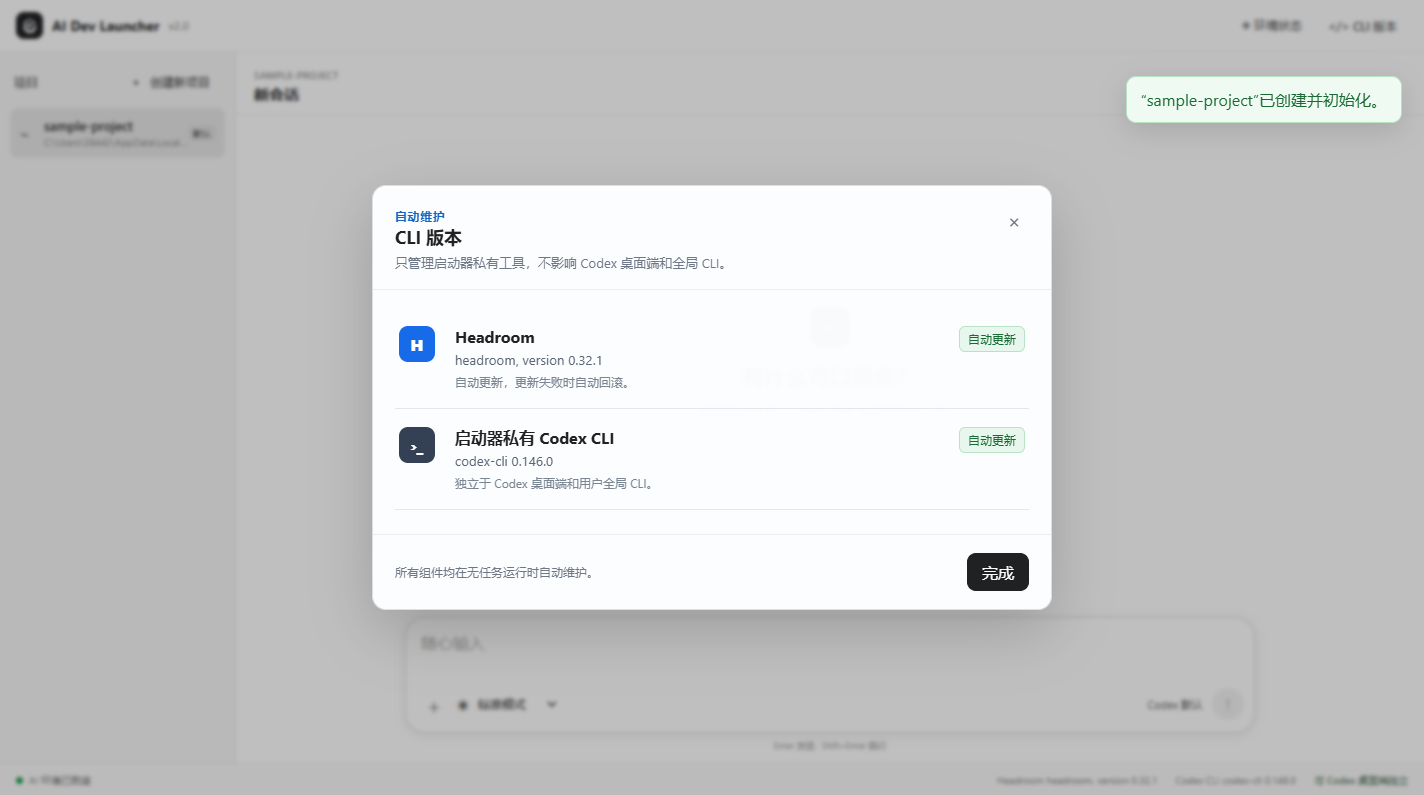
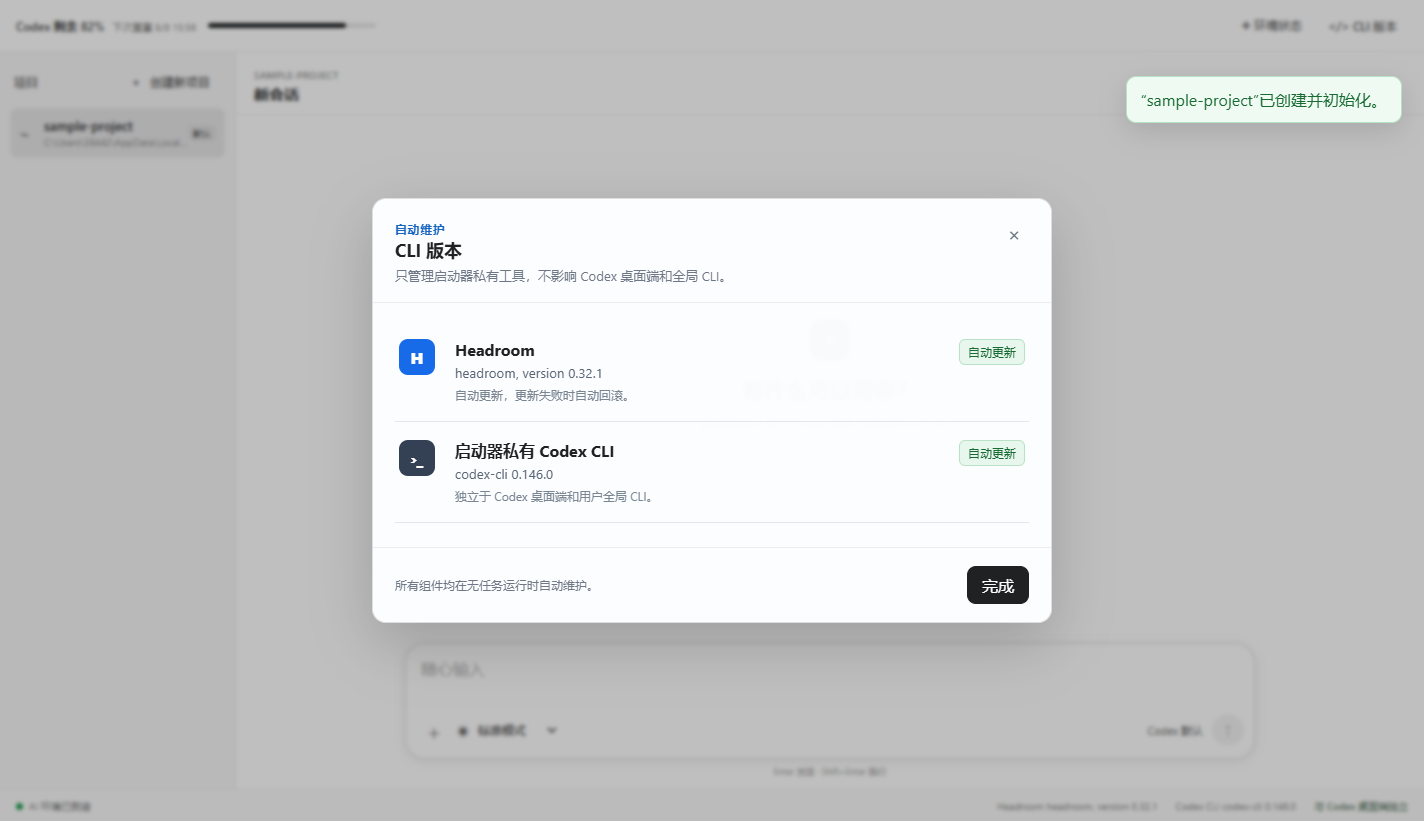
feat: show Codex usage and simplify window chrome

diff --git a/desktop/src/App.vue b/desktop/src/App.vue
@@ -1,17 +1,17 @@
 <script setup lang="ts">
-import { onMounted, ref } from "vue";
+import { computed, onMounted, onUnmounted, ref } from "vue";
 import AddProjectDialog from "./components/AddProjectDialog.vue";
-import AppIcon from "./components/AppIcon.vue";
 import CliVersionDialog from "./components/CliVersionDialog.vue";
 import ChatWorkspace from "./components/ChatWorkspace.vue";
 import EnvironmentDialog from "./components/EnvironmentDialog.vue";
 import ProjectList from "./components/ProjectList.vue";
-import type { CreateProjectInput, Project, RuntimeStatus } from "./types";
+import type { CodexUsage, CreateProjectInput, Project, RuntimeStatus } from "./types";
 
 const projects = ref<Project[]>([]);
 const defaultProject = ref<string | null>(null);
 const selected = ref<Project | null>(null);
 const runtime = ref<RuntimeStatus | null>(null);
+const codexUsage = ref<CodexUsage | null>(null);
 const loading = ref(true);
 const runtimeLoading = ref(true);
 const busy = ref(false);
@@ -21,6 +21,17 @@ const showCreate = ref(false);
 const showEnvironment = ref(false);
 const showVersions = ref(false);
 const createDialog = ref<InstanceType<typeof AddProjectDialog> | null>(null);
+let usageTimer: number | undefined;
+const remainingLabel = computed(() => codexUsage.value?.remaining_percent == null ? "--" : `${Math.round(codexUsage.value.remaining_percent)}%`);
+const resetLabel = computed(() => {
+  const timestamp = codexUsage.value?.resets_at;
+  if (!timestamp) return "重置时间暂不可用";
+  return `下次重置 ${new Date(timestamp * 1000).toLocaleString("zh-CN", { month: "numeric", day: "numeric", hour: "2-digit", minute: "2-digit" })}`;
+});
+async function refreshUsage(): Promise<void> {
+  try { codexUsage.value = await window.launcher.getCodexUsage(); }
+  catch { codexUsage.value = { available: false, used_percent: null, remaining_percent: null, resets_at: null, window_minutes: null, plan_type: null }; }
+}
 function announce(message: string): void { notice.value = message; window.setTimeout(() => { if (notice.value === message) notice.value = ""; }, 4000); }
 
 async function refresh(preferred?: string): Promise<void> {
@@ -58,12 +69,15 @@ onMounted(async () => {
   catch (reason) { error.value = reason instanceof Error ? reason.message : String(reason); }
   finally { loading.value = false; }
   void window.launcher.updatePrivateTools().then(() => refreshRuntime()).catch(() => undefined);
+  void refreshUsage();
+  usageTimer = window.setInterval(() => void refreshUsage(), 5 * 60 * 1000);
 });
+onUnmounted(() => { if (usageTimer) window.clearInterval(usageTimer); });
 </script>
 
 <template>
   <main class="app-shell">
-    <header class="app-header"><div class="brand"><AppIcon /><strong>AI Dev Launcher</strong><small>v2.0</small></div><nav><button class="button secondary compact" data-testid="environment-check" @click="showEnvironment = true">◈ 环境状态</button><button class="button secondary compact" data-testid="cli-version" @click="showVersions = true">&lt;/&gt; CLI 版本</button></nav></header>
+    <header class="app-header"><div class="codex-usage" :class="{ unavailable: !codexUsage?.available }"><div class="usage-copy"><strong>Codex 剩余 {{ remainingLabel }}</strong><small>{{ resetLabel }}</small></div><div class="usage-track" role="progressbar" aria-label="Codex 剩余用量" aria-valuemin="0" aria-valuemax="100" :aria-valuenow="codexUsage?.remaining_percent ?? undefined"><i :style="{ width: `${codexUsage?.remaining_percent ?? 0}%` }"></i></div></div><nav><button class="button secondary compact" data-testid="environment-check" @click="showEnvironment = true">◈ 环境状态</button><button class="button secondary compact" data-testid="cli-version" @click="showVersions = true">&lt;/&gt; CLI 版本</button></nav></header>
     <div v-if="notice" class="toast success" role="status">{{ notice }}</div><div v-if="error" class="toast error" role="alert"><span>{{ error }}</span><button class="icon-button" aria-label="关闭错误" @click="error = ''">×</button></div>
     <section v-if="loading" class="center-state" data-testid="loading"><span class="spinner"></span><p>正在自动准备 AI 开发环境…</p></section>
     <section v-else-if="projects.length === 0" class="center-state empty" data-testid="empty-state"><div class="empty-icon">▱</div><h1>创建第一个项目</h1><p>只需填写名称和保存位置，其余工作将自动完成。</p><button class="button primary" @click="showCreate = true">创建新项目</button></section>

diff --git a/desktop/electron/main/codexUsage.ts b/desktop/electron/main/codexUsage.ts
@@ -1,0 +1,66 @@
+import { spawn } from "node:child_process";
+
+export interface CodexUsage {
+  available: boolean;
+  used_percent: number | null;
+  remaining_percent: number | null;
+  resets_at: number | null;
+  window_minutes: number | null;
+  plan_type: string | null;
+}
+
+export function readCodexUsage(): Promise<CodexUsage> {
+  return new Promise((resolve) => {
+    const environment = { ...process.env };
+    for (const key of Object.keys(environment)) if (key.startsWith("_PYI_")) delete environment[key];
+    const executable = process.platform === "win32" ? (process.env.ComSpec || "cmd.exe") : "codex";
+    const args = process.platform === "win32"
+      ? ["/d", "/s", "/c", "codex.cmd app-server --listen stdio://"]
+      : ["app-server", "--listen", "stdio://"];
+    const child = spawn(executable, args, { env: environment, windowsHide: true, stdio: ["pipe", "pipe", "ignore"] });
+    let buffer = "";
+    let initialized = false;
+    let settled = false;
+    const finish = (value: CodexUsage) => {
+      if (settled) return;
+      settled = true;
+      clearTimeout(timeout);
+      child.kill();
+      resolve(value);
+    };
+    const unavailable = (): CodexUsage => ({ available: false, used_percent: null, remaining_percent: null, resets_at: null, window_minutes: null, plan_type: null });
+    const timeout = setTimeout(() => finish(unavailable()), 8000);
+    child.on("error", () => finish(unavailable()));
+    child.stdout.setEncoding("utf8");
+    child.stdout.on("data", (chunk: string) => {
+      buffer += chunk;
+      const lines = buffer.split(/\r?\n/);
+      buffer = lines.pop() ?? "";
+      for (const line of lines) {
+        if (!line.trim()) continue;
+        let message: Record<string, unknown>;
+        try { message = JSON.parse(line) as Record<string, unknown>; } catch { continue; }
+        if (message.id === 1 && !initialized) {
+          initialized = true;
+          child.stdin.write(`${JSON.stringify({ method: "initialized", params: {} })}\n`);
+          child.stdin.write(`${JSON.stringify({ id: 2, method: "account/rateLimits/read", params: null })}\n`);
+        }
+        if (message.id === 2) {
+          const result = (message.result ?? {}) as Record<string, unknown>;
+          const limits = (result.rateLimits ?? {}) as Record<string, unknown>;
+          const primary = (limits.primary ?? {}) as Record<string, unknown>;
+          const used = typeof primary.usedPercent === "number" ? primary.usedPercent : null;
+          finish({
+            available: used !== null,
+            used_percent: used,
+            remaining_percent: used === null ? null : Math.max(0, 100 - used),
+            resets_at: typeof primary.resetsAt === "number" ? primary.resetsAt : null,
+            window_minutes: typeof primary.windowDurationMins === "number" ? primary.windowDurationMins : null,
+            plan_type: typeof limits.planType === "string" ? limits.planType : null
+          });
+        }
+      }
+    });
+    child.stdin.write(`${JSON.stringify({ id: 1, method: "initialize", params: { clientInfo: { name: "ai-dev-launcher", title: "AI Dev Launcher", version: "2.0" } } })}\n`);
+  });
+}

diff --git a/desktop/electron/main/index.ts b/desktop/electron/main/index.ts
@@ -1,8 +1,9 @@
-import { app, BrowserWindow, dialog, ipcMain } from "electron";
+import { app, BrowserWindow, dialog, ipcMain, Menu } from "electron";
 import { dirname, join } from "node:path";
 import { fileURLToPath } from "node:url";
 import { callPython } from "./pythonBridge.js";
 import { ChatSessionManager } from "./chatSessions.js";
+import { readCodexUsage } from "./codexUsage.js";
 
 const currentDir = dirname(fileURLToPath(import.meta.url));
 
@@ -13,7 +14,7 @@ function createWindow(): void {
     minWidth: 1100,
     minHeight: 620,
     backgroundColor: "#f3f6fb",
-    title: "AI Dev Launcher",
+    title: `AI Dev Launcher v${app.getVersion()}`,
     webPreferences: {
       preload: join(currentDir, "../../electron/preload/index.cjs"),
       contextIsolation: true,
@@ -35,6 +36,7 @@ function createWindow(): void {
 }
 
 app.whenReady().then(() => {
+  Menu.setApplicationMenu(null);
   ipcMain.handle("projects:list", () => callPython("projects.list"));
   ipcMain.handle("projects:create", (_event, payload) =>
     callPython("projects.create", payload)
@@ -49,6 +51,7 @@ app.whenReady().then(() => {
   ipcMain.handle("runtime:bootstrap", () => callPython("runtime.bootstrap"));
   ipcMain.handle("runtime:status", () => callPython("runtime.status"));
   ipcMain.handle("runtime:update", () => callPython("runtime.update"));
+  ipcMain.handle("account:usage", () => readCodexUsage());
   ipcMain.handle("workspace:tree", (_event, payload) => callPython("workspace.tree", payload));
   ipcMain.handle("workspace:read", (_event, payload) => callPython("workspace.read", payload));
   ipcMain.handle("workspace:diff", (_event, payload) => callPython("workspace.diff", payload));

diff --git a/desktop/tests/App.test.ts b/desktop/tests/App.test.ts
@@ -33,6 +33,7 @@ describe("App v2 Phase 1", () => {
     vi.mocked(window.launcher.bootstrapRuntime).mockResolvedValue(runtime);
     vi.mocked(window.launcher.getRuntimeStatus).mockResolvedValue(runtime);
     vi.mocked(window.launcher.updatePrivateTools).mockResolvedValue({ tools: [] });
+    vi.mocked(window.launcher.getCodexUsage).mockResolvedValue({ available: true, used_percent: 17, remaining_percent: 83, resets_at: 1786175808, window_minutes: 10080, plan_type: "plus" });
     vi.mocked(window.launcher.onChatEvent).mockImplementation((callback) => { chatListener = callback; return () => undefined; });
     vi.mocked(window.launcher.getFileTree).mockResolvedValue({ items: [], truncated: false });
     vi.mocked(window.launcher.getGitDiff).mockResolvedValue({ diff: "", status: [] });
@@ -52,6 +53,7 @@ describe("App v2 Phase 1", () => {
     vi.mocked(window.launcher.listProjects).mockResolvedValue({ projects: [project], default_project: "my-app" });
     const view = await render();
     expect(view.host.textContent).toContain("与 Codex 桌面端独立");
+    expect(view.host.textContent).toContain("Codex 剩余 83%");
     expect(view.host.textContent).toContain("有什么可以帮你？");
     expect(view.host.textContent).toContain("标准模式");
     view.unmount();

diff --git a/desktop/src/styles.css b/desktop/src/styles.css
@@ -308,6 +308,13 @@ body { min-width: 900px; min-height: 560px; }
 .app-icon { width: 27px; height: 27px; border-radius: 8px; background: #202123; box-shadow: none; }
 .app-icon svg { width: 19px; fill: #fff; }
 .app-header nav { gap: 4px; }
+.codex-usage { width: min(360px, 42vw); display: grid; grid-template-columns: auto minmax(90px, 1fr); align-items: center; gap: 12px; -webkit-app-region: no-drag; }
+.usage-copy { display: flex; align-items: baseline; gap: 8px; white-space: nowrap; }
+.usage-copy strong { color: #363636; font-size: 12px; font-weight: 600; }
+.usage-copy small { color: #8c8c8c; font-size: 10px; }
+.usage-track { height: 5px; overflow: hidden; border-radius: 99px; background: #e7e7e7; }
+.usage-track i { display: block; height: 100%; border-radius: inherit; background: #202123; transition: width .25s ease; }
+.codex-usage.unavailable .usage-track i { background: #aaa; }
 .button { min-height: 38px; border-radius: 9px; padding: 0 14px; font-weight: 500; }
 .button.primary { color: #fff; background: #202123; border-color: #202123; box-shadow: none; }
 .button.primary:hover:not(:disabled) { background: #353536; }

diff --git a/desktop/src/types.ts b/desktop/src/types.ts
@@ -33,6 +33,15 @@ export interface RuntimeStatus {
   recovered?: boolean;
 }
 
+export interface CodexUsage {
+  available: boolean;
+  used_percent: number | null;
+  remaining_percent: number | null;
+  resets_at: number | null;
+  window_minutes: number | null;
+  plan_type: string | null;
+}
+
 export interface ChatEvent {
   task_id: string;
   type: "codex" | "log" | "error" | "complete";
@@ -82,6 +91,7 @@ export interface LauncherApi {
   bootstrapRuntime(): Promise<RuntimeStatus>;
   getRuntimeStatus(): Promise<RuntimeStatus>;
   updatePrivateTools(): Promise<{ tools: Array<{ key: string; status: string; detail: string }> }>;
+  getCodexUsage(): Promise<CodexUsage>;
   startChat(input: { task_id?: string; name: string; prompt: string; permission: "standard" | "full"; session_id?: string }): Promise<{ task_id: string }>;
   stopChat(taskId: string): Promise<{ stopped: boolean }>;
   onChatEvent(callback: (event: ChatEvent) => void): () => void;

diff --git a/desktop/tests/setup.ts b/desktop/tests/setup.ts
@@ -11,6 +11,7 @@ Object.defineProperty(window, "launcher", {
     bootstrapRuntime: vi.fn(),
     getRuntimeStatus: vi.fn(),
     updatePrivateTools: vi.fn(),
+    getCodexUsage: vi.fn(),
     startChat: vi.fn(),
     stopChat: vi.fn(),
     onChatEvent: vi.fn(() => () => undefined),

diff --git a/src/ai_dev_launcher/bridge.py b/src/ai_dev_launcher/bridge.py
@@ -147,7 +147,9 @@ def main() -> int:
         response = {"ok": True, "data": handle_request(request)}
     except (LauncherError, OSError, ValueError, json.JSONDecodeError) as exc:
         response = {"ok": False, "error": str(exc)}
-    json.dump(response, sys.stdout, ensure_ascii=False)
+    # Keep the Electron bridge byte stream ASCII-only so Windows code pages cannot
+    # corrupt Chinese status labels emitted by the packaged executable.
+    json.dump(response, sys.stdout, ensure_ascii=True)
     sys.stdout.write("\n")
     return 0 if response["ok"] else 1
 

diff --git a/tests/test_cli.py b/tests/test_cli.py
@@ -12,7 +12,7 @@ def test_version():
     result = runner.invoke(app, ["--version"])
 
     assert result.exit_code == 0
-    assert "AI Dev Launcher 2.0.4" in result.stdout
+    assert "AI Dev Launcher 2.0.5" in result.stdout
 
 
 def test_no_args_shows_help():

diff --git a/src/ai_dev_launcher/__init__.py b/src/ai_dev_launcher/__init__.py
@@ -1,3 +1,3 @@
 """AI Dev Launcher."""
 
-__version__ = "2.0.4"
+__version__ = "2.0.5"

diff --git a/RELEASE_NOTES_2.0.5.md b/RELEASE_NOTES_2.0.5.md
@@ -1,0 +1,8 @@
+# AI Dev Launcher v2.0.5
+
+- 修复打包版环境状态中的中文乱码。
+- 移除 Electron 默认的 File、Edit、View、Window、Help 菜单栏。
+- 应用内左上角显示真实 Codex 剩余额度、下次重置时间和进度条。
+- 原生窗口标题调整为 `AI Dev Launcher v2.0.5`。
+- Codex 用量通过本机只读接口获取，不修改 Codex 配置。
+
